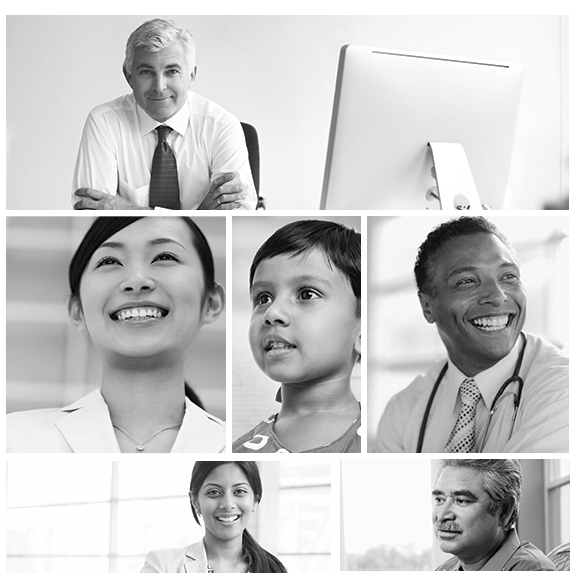
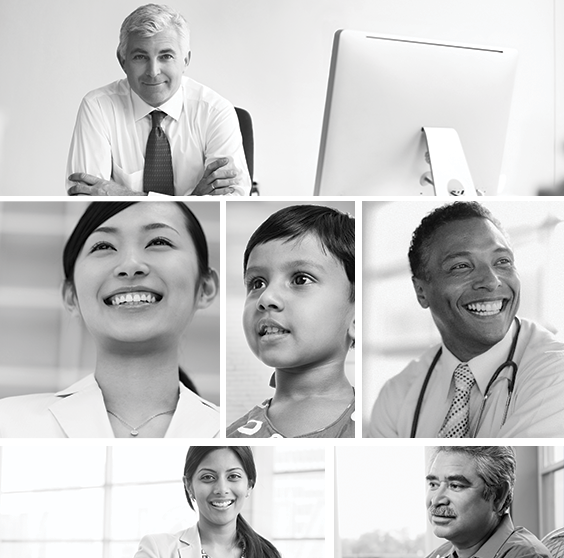
updated GE new pics added to change format

diff --git a/Pages/Kendall_Gregory.html b/Pages/Kendall_Gregory.html
@@ -180,32 +180,16 @@
 			</div>
 			<br class="clear">
 		</div>
-<!-- Lower menu -->
-		<div class="MenuBar">
-			<a class="socials" href="../pages/Pantene.html">Pantene Social Campaign</a>
+		<div id="MenuBar2">
+			<a class="consocials" href="https://twitter.com/KLGregory2" target="_blank">TWITTER</a>
+			<a class="consocials" href="https://www.facebook.com/kendall.gregory.5" target="_blank">FACEBOOK</a>
+			<a class="consocials" href="mailto:kendallgregorydesign@gmail.com">GMAIL</a>
+			<a class="consocials" href="https://www.linkedin.com/pub/kendall-gregory/33/a43/594" target="_blank">LINKEDIN</a>
+			<a class="consocials" href="https://instagram.com/kendallgregory/" target="_blank">INSTAGRAM</a>
 
-			<a class="socials" href="../pages/GE.html">GE</a>
-
-			<a class="socials" href="../pages/Tums.html">Tums</a>
-
-			<a class="socials" href="../pages/StIves.html">St Ives</a>
-
-			<a class="socials" href="../pages/Nexxus.html">Nexxus</a>
-
-			<a class="socials" href="../pages/CoverGirlByKendallG.html">CoverGirl</a>
-			<br>
 
 		</div>
-		<div class="MenuBar mb100">
-			<a class="socials" href="../pages/RTR.html">RTR + Pantene</a>
 
-			<a class="socials" href="../pages/AOHH.html">Art of HealthyHair</a>
-
-			<a class="socials" href="../pages/Fade.html">Xenia Lally Look Book</a>
-			<a class="socials" href="../pages/LGByKendall.html">LG</a>
-
-			<a class="socials" href="../pages/WIAL.html">Put Pantene to the Test</a>
-		</div>
 		<p class="pb30 mt100px">KendallGregory All Rights Reserved &#174;</p>
 
 	</body>

diff --git a/Pages/GE.html b/Pages/GE.html
@@ -32,7 +32,7 @@
 			<p>sfals;dfjlsajflasjfasfjlasfjalsf</p>
 		</div>
 
-		<!-- Missing image -->
+
 		<div class="w100">
 			<div class="w50 FloatL">
 				<img class="cg_h0" src="../assets/GE/Logo_1.png">
@@ -42,17 +42,17 @@
 			</div>
 		</div>
 		<div class="center">
-			<img class="w100" src="../assets/GE/Colors.png">
+			<img class="w89 center mt100px" src="../assets/GE/Colors.png">
 		</div>
 		<div class="center">
-			<img class="w100" src="../assets/GE/Typography.png">
+			<img class="w89 center" src="../assets/GE/Typography.png">
 		</div>
-		<div class="w100 mb200">
-			<div class="w50 FloatL">
-				<img class="cg_h0" src="../assets/GE/slices.png">
+		<div class="w100 mb200 tAc m0a">
+			<div class="w50 FloatL tAc m0a">
+				<img class="w500" src="../assets/GE/slices.png">
 			</div>
-			<div class="w50 FloatR">
-				<img class="cg_h0" src="../assets/GE/People.png">
+			<div class="w50 FloatR tAc m0a">
+				<img class="w500 tAc m0a" src="../assets/GE/People.png">
 			</div>
 		</div>
 
@@ -67,14 +67,14 @@
 			<div class="center overSationary">
 				<img class="w100 overSationary" src="../assets/GE/ComputerMockup.png">
 			</div>
-			<div class="mH200">
+<!-- 			<div class="mH200">
 				<p>sfals;dfjlsajflasjfasfjlasfjalsf</p>
-			</div>
+			</div> -->
 		</section>
 
 <!--  second section-->
 		<section id="triangleBackground2">
-			<div class="center">
+			<div class="center mt100px">
 				<img class="w100 addStat" src="../assets/GE/Posters_GE.png">
 			</div>
 			<div class="mH200">

diff --git a/Pages/Fade.html b/Pages/Fade.html
@@ -4,7 +4,7 @@
 		<link rel="stylesheet" href="https://maxcdn.bootstrapcdn.com/bootstrap/3.3.0/css/bootstrap.min.css">
 		<link rel="stylesheet" href="../scripts/bower_components/carousel-3d/dist/styles/jquery.carousel-3d.default.css" />
 		<!-- Start WOWSlider HEAD section -->
-		<link rel="stylesheet" type="text/css" href="../scripts/engine1/style.css" />
+		<link rel="stylesheet" type="text/css" href="../scripts/engine1/style.css"/>
 		<!-- End WOWSlider HEAD section -->
 		<link rel="stylesheet" type="text/css" href="../styles/index.css"> 
 		<title>Kendall Gregory</title>

diff --git a/Pages/AboutMe.html b/Pages/AboutMe.html
@@ -17,6 +17,7 @@
 			</div>
 			<div class="mT20 right">
 				<h1 class='right w40 tAc'>About Me</h1>
+				<br class="clear">
 				<div class="right" >
 					
 					<br>
@@ -24,8 +25,9 @@
 				</div>
 				<br class="clear">
 			</div>
-	
-		<p class="pb30 mt100px">KendallGregory All Rights Reserved &#174;</p>
+			<br>
+			<br>
+		<p class="clear mt100px">KendallGregory All Rights Reserved &#174;</p>
 
 	</body>
 	<script src="https://ajax.googleapis.com/ajax/libs/jquery/2.1.3/jquery.min.js"></script>  

diff --git a/styles/index.css b/styles/index.css
@@ -268,6 +268,18 @@ a{
 	margin-top: 50%;
 }
 
+.b30{
+
+	bottom: 30;
+	text-align: center;
+	margin: 0 auto;
+	margin-top: 100px;
+}
+
+.w500{
+	width: 500px;
+}
+
 
 
 
@@ -483,6 +495,7 @@ video {
 
 /*GE*/
 .overSationary{
+	margin-top: 75px;
 	z-index: 3;
 
 }
